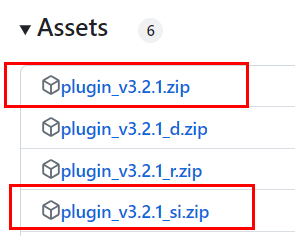
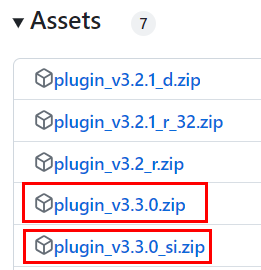
Cambiando imagen de versión

Changed region(s): [[0.0, 0.2076, 1.0, 1.0], [0.0307, 0.0297, 0.3985, 0.178], [0.4904, 0.0593, 0.5824, 0.1483]]

diff --git a/src/translations.ts b/src/translations.ts
@@ -220,8 +220,8 @@ export const translations = {
                         title: "Windows 8, 8.1, 10 and 11",
                         navigateToPluginDownload: "Navigate to the following link: {link} and once there go to the bottom until you found the Assets section",
                         unknownArch: "If you don't know your OS architecture, download {plugin64}",
-                        plugin64: "plugin_v3.2.1.zip",
-                        plugin32: "plugin_v3.2.1_si.zip",
+                        plugin64: "plugin_v3.3.0.zip",
+                        plugin32: "plugin_v3.3.0_si.zip",
                         knownArch: "If you know your OS architecture, you can choose {plugin64} for 64 bits or {plugin32} for 32 bits",
                         compatibility: "If you have compatibility issues later, maybe your arch is wrong. In that case, download {plugin32}",
                         antivirusesWarning: "In some cases, your web browser or antivirus will block the download. {pluginIsSecure} and is up to you to force the download",
@@ -244,8 +244,8 @@ export const translations = {
                         navigateToPluginDownload: "Go to the next link: {link} and once there, go to the bottom until you see the Assets section",
                         debianBased: "If you use a debian based OS, choose {plugin_debian}",
                         raspberryPiOSBased: "If you use Raspberry Pi OS, choose {plugin_raspberry}",
-                        debian: "plugin_v3.2.1_d.zip",
-                        raspberryPiOS: "plugin_v3.2.1_r.zip",
+                        debian: "plugin_v3.3.0_d.zip",
+                        raspberryPiOS: "plugin_v3.3.0_r.zip",
                         forceDownload: "In some cases, your web browser or antivirus will block the download. {pluginSafe}, and is up to you to force the download",
                         pluginSafe: "The plugin is totally safe and does not contain any kind of virus",
                         onceDownloaded: "Once downloaded, if it is a zip file, you must extract it. If you have the {zipUtility} utility installed, you can execute: {unzipCode} (changing the downloaded file's name accordingly)",
@@ -765,8 +765,8 @@ export const translations = {
                         title: "Windows 8, 8.1, 10 y 11",
                         navigateToPluginDownload: "Navega al siguiente enlace: {link} y una vez ahí ve al final de la página hasta que encuentres la sección que dice Assets",
                         unknownArch: "Si no conoces la arquitectura de tu sistema operativo, descarga {plugin64}",
-                        plugin64: "plugin_v3.2.1.zip",
-                        plugin32: "plugin_v3.2.1_si.zip",
+                        plugin64: "plugin_v3.3.0.zip",
+                        plugin32: "plugin_v3.3.0_si.zip",
                         knownArch: "Si conoces la arquitectura de tu dispositivo, puedes elegir {plugin64} para 64 bits o {plugin32} para 32 bits",
                         compatibility: "Si más adelante tienes problemas de compatibilidad, tal vez descargaste el plugin para una arquitectura distinta. En ese caso, descarga {plugin32}",
                         antivirusesWarning: "En algunos casos, tu navegador web o antivirus bloqueará la descarga. {pluginIsSecure} y es tu responsabilidad forzar la descarga",
@@ -788,8 +788,8 @@ export const translations = {
                         navigateToPluginDownload: "Ve al siguiente enlace: {link} y una vez ahí, navega hacia abajo hasta que veas la sección de Assets",
                         debianBased: "Si usas un sistema operativo basado en Debian, elige {plugin_debian}",
                         raspberryPiOSBased: "Si usas Raspberry Pi OS, elige {plugin_raspberry}",
-                        debian: "plugin_v3.2.1_d.zip",
-                        raspberryPiOS: "plugin_v3.2.1_r.zip",
+                        debian: "plugin_v3.3.0_d.zip",
+                        raspberryPiOS: "plugin_v3.3.0_r.zip",
                         forceDownload: "En algunos casos, tu navegador web o antivirus bloqueará la descarga. {pluginSafe}, y es tu responsabilidad forzar la descarga",
                         pluginSafe: "El plugin es totalmente seguro y no contiene ningún tipo de virus",
                         onceDownloaded: "Una vez descargado, si es un archivo zip, debes extraerlo. Si tienes la utilidad {zipUtility} instalada, puedes ejecutar: {unzipCode} (cambiando el nombre del archivo descargado como sea necesario)",
